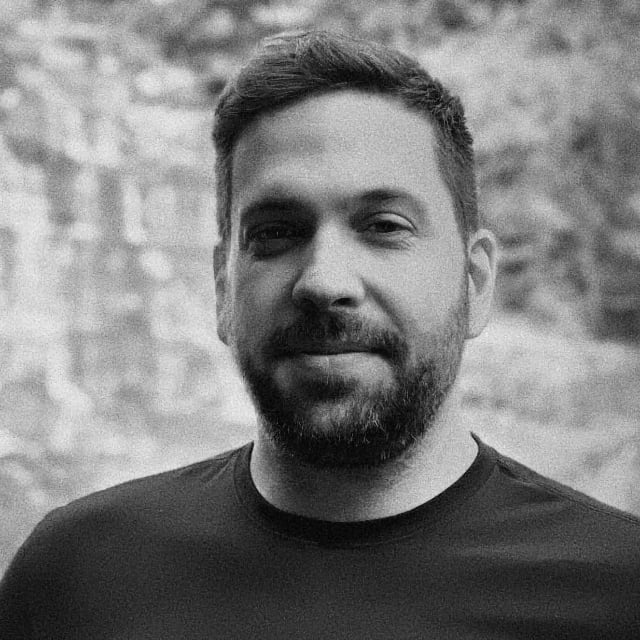
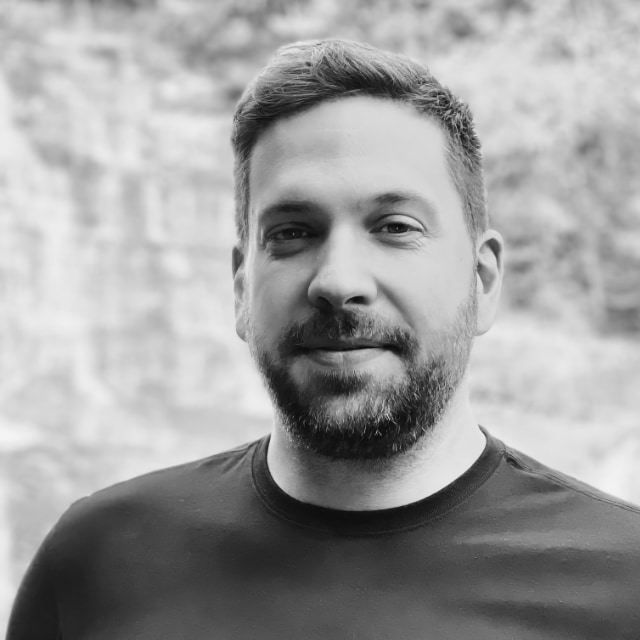
Update photo, intro (#527)
* Update intro

* Update photo

diff --git a/pages/home.md b/pages/home.md
@@ -22,9 +22,9 @@ permalink: "/index.html"
 
 A surprising number of folks go by the same name. Their friends email me all the time.
 
-I live in upstate New York with my [talented significant other](https://katydecorah.com) and our 4-year-old kiddo. I’m an accessibility engineer at [CommunicateHealth](https://communicatehealth.com) and co-tinkerer at [doublegreat.dev](https://doublegreat.dev/).
+I live in upstate New York with my [talented significant other](https://katydecorah.com) and our 4-year-old kiddo. 
 
-I wrote my first bit of HTML in a Notepad window sometime in 1998 and [never stopped](https://github.com/jsnmrs).
+I’m a [WAS-certified](https://www.credly.com/badges/d58371ca-e424-4a18-bc4c-41177b02a7d4/) Accessibility Engineer at [CommunicateHealth](https://communicatehealth.com) and co-tinkerer at [doublegreat.dev](https://doublegreat.dev/). I typed my first bit of HTML in a Notepad window sometime in 1998 and never stopped [writing code](https://github.com/jsnmrs).
 
   </article>
   <div class="photo">
